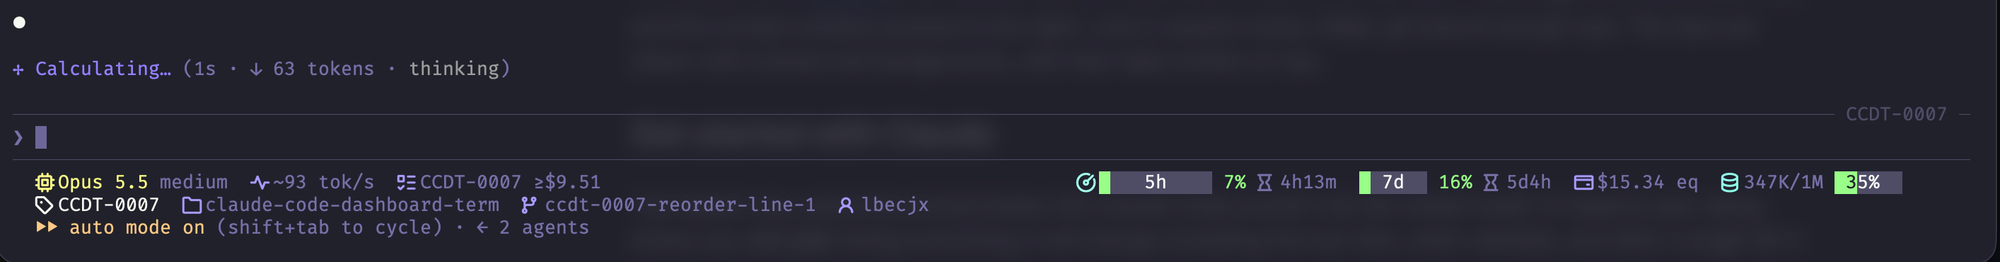
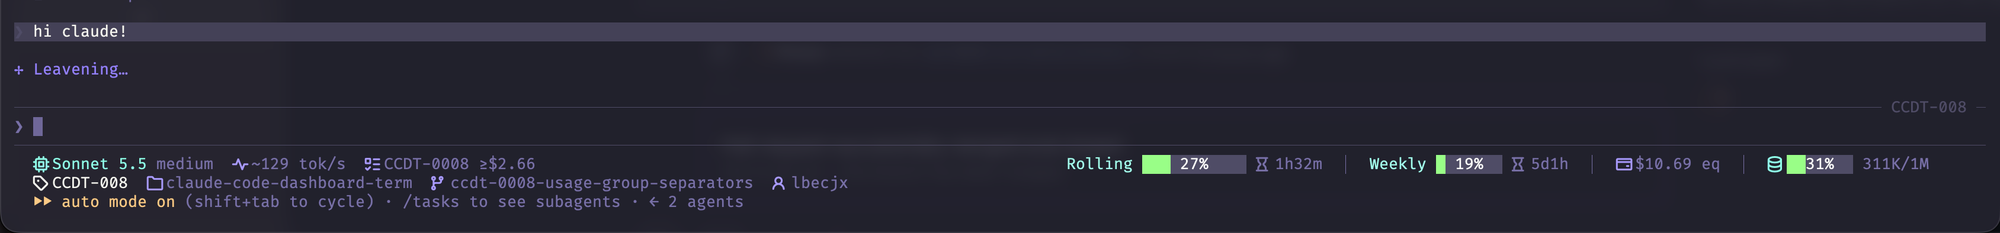
Name each usage window and put its percentage inside the bar (#13)
* Name each usage window and put its percentage inside the bar

The usage windows read Rolling, Weekly and Budget, each with its percentage centered inside the bar. The context window follows the same order: icon, bar, then text.

A thin vertical bar splits the usage windows, the session cost and the context window. SLOW DOWN is removed, since the red Rolling word and bar already show a critical window. Version 0.5.1.

* Remove the /compact hint next to the context window

The bar color, yellow from 60% and red from 80%, already carries the urgency.

* Show Eq and Context as words in plain-text mode

With STATUSLINE_ICONS=0 the session cost reads "Eq $4.87" and the context bar starts with "Context", in place of their icons.

* Update the README screenshot for the new line 1

The screenshot shows the usage windows named with words, the percentage inside each bar and the thin vertical separators.

diff --git a/statusline.py b/statusline.py
@@ -11,7 +11,7 @@
 
   1. AGENT    on the left: model + effort, fast mode, speed of the last response (~N tok/s) and the workflow-dev story
               cost (only in a project that uses workflow-dev); pushed to the right edge (space-between): usage group
-              (5h / 7d / spend bars), SLOW DOWN, estimated session cost and the context window
+              (5h / 7d / spend bars), estimated session cost and the context window, split by a thin separator
   2. SESSION  session name, folder and, only inside a git repo, branch and git user
   3. (opt-in) tokens of the last API call: I / O / R / W
 
@@ -36,7 +36,7 @@ Run `python3 statusline.py --version` to print the version.
 """
 import datetime, json, math, os, re, stat, subprocess, sys, time, unicodedata
 
-__version__ = "0.5.0"   # keep in sync with CHANGELOG.md
+__version__ = "0.5.1"   # keep in sync with CHANGELOG.md
 
 
 def env_int(name, default):
@@ -102,11 +102,11 @@ GIT_ENV_DROP = ("GIT_DIR", "GIT_WORK_TREE", "GIT_INDEX_FILE", "GIT_COMMON_DIR", 
 # They are written as \u escapes so they stay visible in a diff.
 # Do not use oct-zap: it is U+26A1, a standard Unicode character that many terminals draw as an emoji.
 ICON = {"name": "\uf412", "branch": "\uf418", "folder": "\uf413", "model": "\uf4bc",
-        "context": "\uf472", "usage": "\uf463",
-        "alert": "\uf421", "fast": "\uf427", "cost": "\uf439", "reset": "\uf4e3", "user": "\uf415",
+        "context": "\uf472",
+        "fast": "\uf427", "cost": "\uf439", "reset": "\uf4e3", "user": "\uf415",
         "story": "\uf4a0", "speed": "\uf469"}
-TEXT = {"name": "", "branch": "", "folder": "", "model": "", "context": "",
-        "usage": "", "alert": "", "fast": "⚡", "cost": "", "reset": "→", "user": "",
+TEXT = {"name": "", "branch": "", "folder": "", "model": "", "context": "Context",
+        "fast": "⚡", "cost": "Eq", "reset": "→", "user": "",
         "story": "", "speed": ""}
 
 BAR_WIDTH = 6    # 7d, spend and context bars, in cells
@@ -294,19 +294,31 @@ def join(groups):
     return "  ".join(g for g in groups if g)
 
 
+def join_sep(parts):
+    """Parts of line 1 (windows, costs, context), split by a dim vertical bar so each one reads on its own."""
+    return ("  " + paint("│", "dim") + "  ").join(g for g in parts if g)
+
+
 # --- blocks -----------------------------------------------------------------------------------------------------------
 
-def usage_bar(p, label, window, width, tone=None):
-    """One usage bar: the bar with its label inside, the percentage, and the time until it resets."""
+def percent_bar(p, width, tone=None):
+    """Bar with its percentage inside. The text only centers when its length and the bar width are both odd or both
+    even, so the bar grows by a cell if not."""
+    text = f"{p}%"
+    width = max(width, len(text))
+    return cell_bar(p, width + (width - len(text)) % 2, text, tone)
+
+
+def usage_bar(p, word, window, width, tone=None, word_tone="bcyan"):
+    """One usage window: its word, the bar with the percentage inside, and the time until it resets."""
     reset = nonneg(window.get("resets_at"))
-    return (cell_bar(p, width, label, tone) + " " + paint(f"{p}%", level_tone(p)) +
-            (reset_txt(reset) if reset else ""))
+    return paint(word + " ", word_tone) + percent_bar(p, width, tone) + (reset_txt(reset) if reset else "")
 
 
 def limits(d):
-    """Usage group: ONE icon (a gauge) followed by whichever bars exist: 5h, 7d and spend.
-    A bar appears only if Claude Code sends its data; if none arrives the whole group (icon included) is hidden.
-    Returns a list of parts: that group, plus SLOW DOWN when the 5h window is at 80% or more."""
+    """Usage windows: whichever exist (5h, 7d and spend), each with its word.
+    A window appears only if Claude Code sends its data; if none arrives nothing is shown.
+    Returns a list with one entry per window."""
     # spend_limit only exists behind a Claude apps gateway with a spend limit
     five, week, spend = (section(d, "rate_limits", key) for key in ("five_hour", "seven_day", "spend_limit"))
     five_p, week_p, spend_p = (pct(w.get("used_percentage")) for w in (five, week, spend))
@@ -314,39 +326,21 @@ def limits(d):
 
     bars = []
     if five_p is not None:
-        bars.append(usage_bar(five_p, "5h", five, BAR_5H, "red" if critical else None))
+        bars.append(usage_bar(five_p, "Rolling", five, BAR_5H, "red" if critical else None, "red" if critical else "bcyan"))
     if week_p is not None:
-        bars.append(usage_bar(week_p, "7d", week, BAR_WIDTH))
+        bars.append(usage_bar(week_p, "Weekly", week, BAR_WIDTH))
     if spend_p is not None:
-        bars.append(usage_bar(spend_p, "spend", spend, BAR_WIDTH))
-
-    parts = []
-    if bars:
-        lead = paint(f"{icon('usage')} ", "red" if critical else "bcyan") if icon("usage") else ""
-        parts.append(lead + "  ".join(bars))
-    if critical:
-        a = icon("alert")
-        parts.append(paint((a + " " if a else "") + "SLOW DOWN", "red"))
-    return parts
+        bars.append(usage_bar(spend_p, "Budget", spend, BAR_5H))
+    return bars
 
 
 def context(d):
     ctx_p = pct(get(d, "context_window", "used_percentage"))
     tokens = nonneg(get(d, "context_window", "total_input_tokens"))
     size = nonneg(get(d, "context_window", "context_window_size"))
-    ctx = ""
-    if tokens is not None and size:
-        ctx = f"{human(tokens)}/{human(size)}"
-    if ctx_p is not None:
-        ctx += (" " if ctx else "") + cell_bar(ctx_p, BAR_WIDTH, f"{ctx_p}%", level_tone(ctx_p))
-        # /compact keeps a summary of the conversation; /clear would throw it away, so it is never suggested here.
-        # The urgency is carried by the color: dim, then yellow, then red.
-        if ctx_p >= 80:
-            ctx += " " + paint("/compact", "red")
-        elif ctx_p >= 60:
-            ctx += " " + paint("/compact", "amber")
-        elif ctx_p >= 40:
-            ctx += " " + paint("/compact soon", "dim")
+    amount = f"{human(tokens)}/{human(size)}" if tokens is not None and size else ""
+    ctx = percent_bar(ctx_p, BAR_WIDTH, level_tone(ctx_p)) if ctx_p is not None else ""   # icon, bar, then the text
+    ctx += (" " if ctx and amount else "") + amount   # the urgency is carried by the bar's color alone
     if ctx and icon("context"):
         ctx = paint(icon("context") + " ", "cyan") + ctx
     return ctx
@@ -506,8 +500,8 @@ def block_model(d):
 
 
 def block_usage(d):
-    """Right group of line 1, what measures consumption: usage group, SLOW DOWN, session cost, context window."""
-    return join([*safe(limits, d), safe(block_cost, d), safe(context, d)])
+    """Right group of line 1, what measures consumption: usage group, session cost, context window."""
+    return join_sep([*safe(limits, d), safe(block_cost, d), safe(context, d)])
 
 
 def read_small_bytes(path, max_bytes):
@@ -652,7 +646,8 @@ def block_cost(d):
     if cost is None or cost < 0.005:   # nothing to show until it reaches a cent
         return ""
     i = icon("cost")
-    return (paint(i + " ", "mute") if i else "") + paint(f"${cost:.2f} eq", "dim")
+    amount = f"${cost:.2f}" + (" eq" if ICONS_ON else "")   # with plain text the word "Eq" leads instead of the icon
+    return (paint(i + " ", "mute") if i else "") + paint(amount, "dim")
 
 
 def block_tokens(d):

diff --git a/README.md b/README.md
@@ -6,7 +6,7 @@ A compact, colored **status line for [Claude Code](https://code.claude.com)**. O
 
 ![claude-code-dashboard-term running in Ghostty while Claude works: model and effort, speed and workflow-dev story cost on the left, 5h and 7d usage bars with reset times, estimated session cost and context window on the right, and session, folder, git branch and user on the second line](docs/screenshot.png)
 
-*The status line in [Ghostty](https://ghostty.org), while Claude is answering. Line 1: model and effort, speed of the last response and the workflow-dev story cost on the left; the 5-hour and 7-day usage bars, estimated session cost and context window pushed to the right. Line 2: session name, folder, git branch and git user. The bars are drawn with colored cell backgrounds, with their label written on top.*
+*The status line in [Ghostty](https://ghostty.org), while Claude is answering. Line 1: model and effort, speed of the last response and the workflow-dev story cost on the left; the 5-hour and 7-day usage bars, estimated session cost and context window pushed to the right. Line 2: session name, folder, git branch and git user. The bars are drawn with colored cell backgrounds, with the percentage written on top.*
 
 ## Get started with Claude
 
@@ -77,7 +77,7 @@ PHASE 2: do it (after my OK, without asking again)
 9. You cannot see my screen, so ask me this one question. The icon characters cannot be shown in your own text, so
    tell me to run this line myself by typing `! ` (an exclamation mark and a space) before it, and ask whether I see
    icons or boxes, and whether the icons are a readable size.
-   python3 -c "print('\uf412 \uf413 \uf418 \uf4bc \uf463 \uf4e3 \uf439 \uf4a0 \uf469')"
+   python3 -c "print('\uf412 \uf413 \uf418 \uf4bc \uf4e3 \uf439 \uf4a0 \uf469')"
    Skip this question if my terminal is Ghostty or you already chose plain text. A new terminal window may be needed for a newly installed font to be picked up. If I still see boxes, question marks or nothing,
    set STATUSLINE_ICONS=0 in the command ("command": "STATUSLINE_ICONS=0 python3 ~/.claude/statusline.py").
 10. Finish with a short summary of what you changed, how to undo it (restore the backups), and that the status line
@@ -159,7 +159,7 @@ Requirements: Python 3.9 or newer (the CI runs 3.9, 3.12 and the latest 3.x), an
 
 **Line 1 — the agent**
 
-On the left, what describes the agent and the task: model and effort, fast mode, speed and the story cost. Pushed to the right edge, what measures consumption: the usage group, `SLOW DOWN`, the session cost and the context window. When the terminal is too narrow (or with `STATUSLINE_FLEX=0`), the right group follows the left one on the same line, in the same order.
+On the left, what describes the agent and the task: model and effort, fast mode, speed and the story cost. Pushed to the right edge, what measures consumption: the usage group, the session cost and the context window, each split from the next by a thin `│`. When the terminal is too narrow (or with `STATUSLINE_FLEX=0`), the right group follows the left one on the same line, in the same order.
 
 | Part | Meaning |
 |---|---|
@@ -167,10 +167,9 @@ On the left, what describes the agent and the task: model and effort, fast mode,
 | `fast` | Shown only while Claude Code's fast mode is on. |
 | `~126 tok/s` | **Approximate** speed of the last response, in output tokens per second: the output tokens of all its model calls divided by the time the model spent on them. Time spent running tools is not counted, but each call **includes the wait for the first token**, so the value is understated, most of all for short responses. Claude Code does not report stream timings, so it is computed from the timestamps in the session transcript. While a new response has no model call yet, or one too short to time, the number is replaced by `… tok/s` until the new response is measured. It has its own pulse icon. Nothing is shown only before the first response of the session. Turn it off with `STATUSLINE_SPEED=0`. |
 | `PROJ-1234 ≥$23.45` | Cost of the **current [workflow-dev](#workflow-dev-story-cost) story**, across every session that worked on it: a different number from the session cost (`$31.23 eq`) on the right. `≥` when the real cost may be higher (part of it is an estimate). Only in a project that uses workflow-dev, on a branch named after the story, while the story is open (see [workflow-dev story cost](#workflow-dev-story-cost)). |
-| gauge icon + bars | The **usage group**: one icon, then the bars that exist. `5h` and `7d` are your subscription windows; `spend` is a gateway spend limit. Each bar shows the percentage used and the time until it resets. |
-| `SLOW DOWN` | Shown when the 5-hour window is at 80% or more. |
+| `Rolling` · `Weekly` · `Budget` | The **usage group**: one window per bar that exists, each with its word and split from the next by a `│`. `Rolling` is the 5-hour window, `Weekly` the 7-day window (both from your subscription), `Budget` a gateway spend limit. Each bar has the percentage used written inside it, followed by the time until it resets. The bar is one cell wider when that keeps the percentage centered. |
 | `$31.23 eq` | Estimated cost of the **current session** at API list prices (Claude Code's `cost.total_cost_usd`). It starts at $0 with every new session, including after `/clear`; it is **not** a daily or weekly total. **Not what you are billed**: on a subscription nothing is billed per token, hence "eq" (equivalent). |
-| `613K/1M ▓▓▓▓░░ 61%` | Context window: tokens used out of the window size, plus a bar. At 40% you get a dim `/compact soon`, at 60% `/compact`, and from 80% the same `/compact` in red (`/compact` keeps a summary of the conversation; the urgency is carried by the color). Last part of the line, at the right edge. |
+| `▓▓▓▓░░ 61% 613K/1M` | Context window: a bar with the percentage inside, then the tokens used out of the window size (the same order as the usage windows: icon, bar, text). The bar turns yellow from 60% and red from 80%. Last part of the line, at the right edge. |
 
 **Line 2 — the session**
 
@@ -241,10 +240,10 @@ Your `font-family` stays as it is. Reload the config (Cmd+Shift+, on macOS) or o
 ### Check it
 
 ```bash
-python3 -c "print('\uf412 \uf413 \uf418 \uf4bc \uf463 \uf4e3 \uf439 \uf4a0 \uf469')"
+python3 -c "print('\uf412 \uf413 \uf418 \uf4bc \uf4e3 \uf439 \uf4a0 \uf469')"
 ```
 
-You should see a tag, a folder, a branch, a chip, a gauge, an hourglass, a card, a task list and a pulse. If you see boxes or question marks, the symbols font is not being used in that terminal: install it (step 1), open a new window, then try step 2, or use `STATUSLINE_ICONS=0`.
+You should see a tag, a folder, a branch, a chip, an hourglass, a card, a task list and a pulse. If you see boxes or question marks, the symbols font is not being used in that terminal: install it (step 1), open a new window, then try step 2, or use `STATUSLINE_ICONS=0`.
 
 If the icons render but look slightly off, or the end of line 1 is clipped, see [Troubleshooting](#troubleshooting).
 
@@ -264,7 +263,7 @@ All settings are **optional environment variables**. A value that is not a numbe
 
 | Variable | Default | Effect |
 |---|---|---|
-| `STATUSLINE_ICONS` | `1` (on) | `0` replaces every Nerd Font icon with plain text (`→` for reset times, `⚡` for fast mode). Use it if your terminal has no Nerd Font. |
+| `STATUSLINE_ICONS` | `1` (on) | `0` replaces every Nerd Font icon with plain text (`→` for reset times, `⚡` for fast mode, the word `Eq` before the session cost and `Context` before the context bar). Use it if your terminal has no Nerd Font. |
 | `STATUSLINE_GIT_USER` | `1` (on) | `0` hides the git user on line 2. When off, the script does not even call git for it. The user is only ever shown inside a git repository. |
 | `STATUSLINE_SPEED` | `1` (on) | `0` hides the approximate speed of the last response (`~N tok/s`) and the script does not read the transcript. |
 | `STATUSLINE_TOKENS` | `0` (off) | `1` adds a third line with the last API call's tokens: `I` input, `O` output, `R` cache read, `W` cache write. |
@@ -282,7 +281,7 @@ These are constants at the top of `statusline.py`, meant to be edited directly:
 
 | Constant | What it controls |
 |---|---|
-| `BAR_5H`, `BAR_WIDTH` | Width in cells of the 5-hour bar (default 10) and of the 7d, spend and context bars (default 6). |
+| `BAR_5H`, `BAR_WIDTH` | Width in cells of the 5-hour bar (default 10) and of the 7d and context bars (default 6). The `Budget` bar is `BAR_5H` wide. The usage and context bars grow by one cell when that keeps the percentage inside them centered. |
 | `GIT_TIMEOUT`, `MAX_COLUMNS` | Seconds each git call may take (1) and the widest terminal the layout will assume (1000). |
 | `ICON` / `TEXT` | The icon (Nerd Font code point) and the plain-text replacement used for each field. |
 | `TONE` | Text colors. Plain ANSI numbers follow your terminal theme, `38;5;N` values are fixed 256-color. |
@@ -294,8 +293,8 @@ These are constants at the top of `statusline.py`, meant to be edited directly:
 | State | Color | Applies to |
 |---|---|---|
 | healthy | green | percentages and bars below the warning level |
-| warning | yellow | 60-79%, for both the percentage text and the bars; `/compact`; `Opus`; effort `high`, `xhigh`, `max` |
-| critical | red | 80% and above; the red `/compact`; `SLOW DOWN`; the usage icon turns red while the 5-hour window is critical |
+| warning | yellow | 60-79%, for both the percentage text and the bars; `Opus`; effort `high`, `xhigh`, `max` |
+| critical | red | 80% and above; the `Rolling` word and bar turn red while the 5-hour window is critical |
 | fast mode | orange | the rocket and the word `fast` |
 | empty part of a bar | gray | background |
 
@@ -321,7 +320,7 @@ What you see depends on what Claude Code sends, which depends on how you authent
 
 | How you use Claude Code | Usage bars | Cost |
 |---|---|---|
-| Claude **Pro / Max** subscription | `5h` and `7d` windows (after the first response of a session) | shown as `eq` |
+| Claude **Pro / Max** subscription | `Rolling` and `Weekly` windows (after the first response of a session) | shown as `eq` |
 | **Amazon Bedrock**, direct API | none: Claude Code sends no subscription limits, so the usage group is hidden | shown if Claude Code computes it |
 | Behind a **Claude apps gateway** with a spend limit | a `spend` bar (needs Claude Code 2.1.251 or later) | shown as `eq` |
 
@@ -350,7 +349,7 @@ Add `STATUSLINE_ICONS=0` in front to see the plain-text version, and `COLUMNS=14
 | The end of line 1 is cut with `…` | Claude Code reserves space on the right. Raise `STATUSLINE_MARGIN`. |
 | Icons overlap the text | Your terminal draws icons wider than one cell. Use the `Mono` variant of your Nerd Font (for a symbols font, `SymbolsNerdFontMono-Regular.ttf` in the downloaded zip), or set `STATUSLINE_ICON_CELLS=2`. |
 | Icons look tiny | You are using a `Mono` variant, which shrinks every icon to fit one cell. Switch to the regular variant of the same Nerd Font (for example `CaskaydiaCove Nerd Font` instead of `CaskaydiaCove Nerd Font Mono`). |
-| No `5h` / `7d` bars | They only exist with a Pro / Max subscription, and only after the first response of a session. With Bedrock or an API key they never exist. |
+| No `Rolling` / `Weekly` bars | They only exist with a Pro / Max subscription, and only after the first response of a session. With Bedrock or an API key they never exist. |
 | No branch and no user | You are not inside a git repository, or `git` is not installed. This is intentional. |
 | No session name | None has been set yet. Use `claude --name "..."` or `/rename`. |
 | Nothing shows up at all | Run `python3 examples/demo.py \| python3 statusline.py`. If that prints, the script is fine and the problem is the `statusLine` block in `settings.json`. |

diff --git a/CHANGELOG.md b/CHANGELOG.md
@@ -5,6 +5,19 @@ All notable changes to this project are listed here. The format follows
 [Semantic Versioning](https://semver.org/spec/v2.0.0.html). While the major version is 0, output and
 configuration may still change between minor versions.
 
+## [0.5.1] - 2026-10-09
+
+### Changed
+- Each usage window is named with a word instead of the shared gauge icon: `Rolling` (5 hours), `Weekly` (7 days) and `Budget` (spend limit). The words show in text mode too.
+- In plain text (`STATUSLINE_ICONS=0`) the session cost reads `Eq $4.87` and the context bar starts with `Context`, in place of their icons.
+- The percentage of every usage bar is written inside the bar, no longer next to it, and the `5h` and `7d` labels are gone. A bar grows by one cell when that keeps the number centered.
+- The usage windows, the session cost and the context window are split by a thin `│` in the dim tone.
+- The context window follows the same order as the usage windows: the icon, the bar with the percentage inside, then the text (`392K/1M`). It used to put the text before the bar.
+
+### Removed
+- `SLOW DOWN`. The red `Rolling` word and bar already say the 5-hour window is at 80% or more. The `alert` and `usage` icons went with it.
+- The `/compact` hint next to the context window. The color of its bar (yellow from 60%, red from 80%) already carries the urgency.
+
 ## [0.5.0] - 2026-10-09
 
 ### Changed
